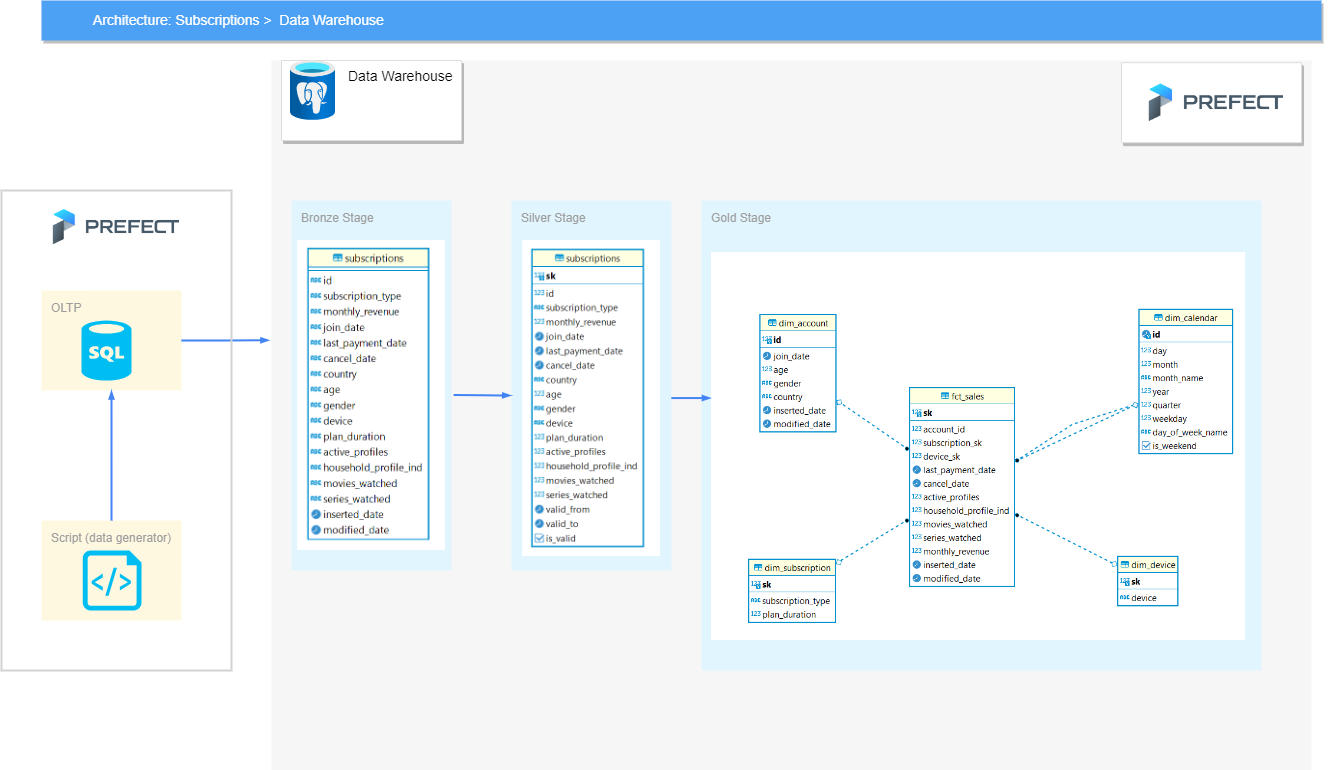
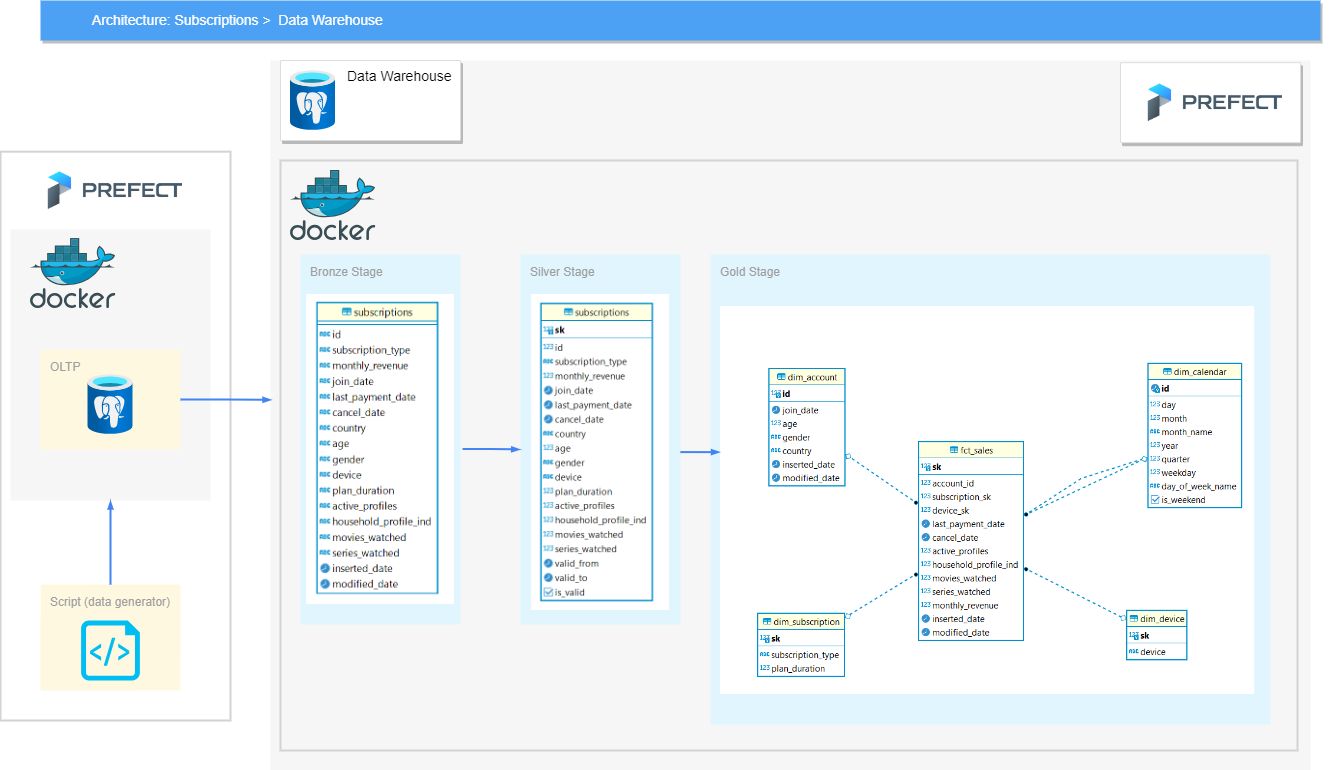
Uncommit changes to wrong gitignore

diff --git a/schedular/utility/load_data.py b/schedular/utility/load_data.py
@@ -22,7 +22,6 @@ class DataLoader:
         """
         # Initialize a QueryExecutor to manage database queries
         query_executer = QueryExecutor()
-        sql_query = open('sql/call_func_merge_tmp_to_bronze.sql').read()
         # Create a connection and cursor for executing SQL queries
         conn = query_executer.create_cursor_connection()
         curr = conn.cursor()
@@ -32,7 +31,7 @@ class DataLoader:
             data.to_sql("temp_table_bronze", schema='bronze', if_exists='append', index=False, con=self.dw_engine)
 
             # Execute a SQL query to merge the temporary table into the 'subscriptions' table
-            curr.execute(sql_query)
+            curr.execute('SELECT bronze.merge_temp_table_into_subscriptions();')
 
             # Commit changes to the database and close the cursor and connection
             conn.commit()

diff --git a/schedular/to_bronze.py b/schedular/to_bronze.py
@@ -5,14 +5,13 @@ from utility.extract_data import DataExtractor
 from utility.load_data import DataLoader
 
 # Load credentials and SQL query from Prefect JSON blocks and files
-sqlite_credential = JSON.load("sqlite")
+db_credential = JSON.load("db-postgres")
 dw_credential = JSON.load("dw-postgres")
 sql_query = open('sql/to_bronze.sql').read()
 
 # Extract SQLite credentials and create a connection to SQLite database
-db_path = sqlite_credential.value["url"]
-db_url = f"sqlite:///{db_path}"
-db_connector = DatabaseConnector(db_url)
+db_path = db_credential.value["url"]
+db_connector = DatabaseConnector(db_path)
 db_engine = db_connector.create_engine()
 
 # Extract Data Warehouse (DW) credentials and create a connection to DW database (PostgreSQL)

diff --git a/schedular/to_oltp_database.py b/schedular/to_oltp_database.py
@@ -4,10 +4,9 @@ from prefect.blocks.system import JSON
 from connection.connect_to_db import DatabaseConnector
 from utility.generate_data import  DataGenerator
 
-sqlite_credential = JSON.load("sqlite")
-db_path = sqlite_credential.value["url"]
-db_url = f"sqlite:///{db_path}"
-connector = DatabaseConnector(db_url)
+db_credential = JSON.load("db-postgres")
+db_path = db_credential.value["url"]
+connector = DatabaseConnector(db_path)
 data_generator = DataGenerator()
 
 @task

diff --git a/README.md b/README.md
@@ -61,10 +61,13 @@ First of all, all necessary libraries should be installed. For this purpose, you
   $ venv\Scripts\activate
   $ pip install -r requirements.txt
 ```
-For setting up source and data warehouse with all needed tables and functions. I'd like to let you know that scripts can be executed. But before you go ahead, please create a Postgres user and change the credentials of inside the provided scripts. 
+You can use Docker Compose to set up both the source and data warehouse environments, complete with all the necessary tables and functions.
+
 ```bash
-  $ python setup_db.py
-  $ python setdw_dw.py
+  $ docker pull bitnami/postgresql:latest
+  $ docker pull adminer:latest
+  $ cd .\setup\
+  $ docker-compose up -d
 ```
 
 ## Data Glossary
